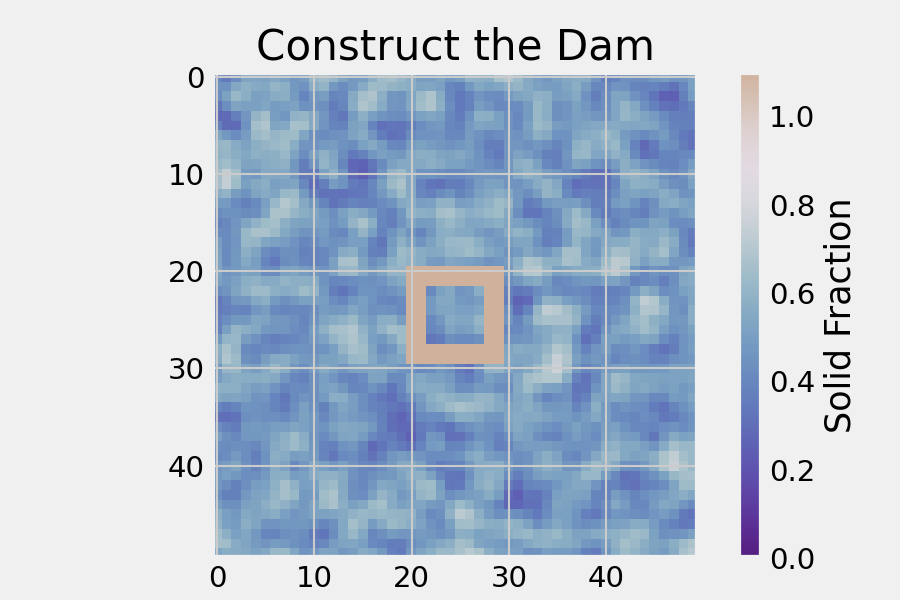
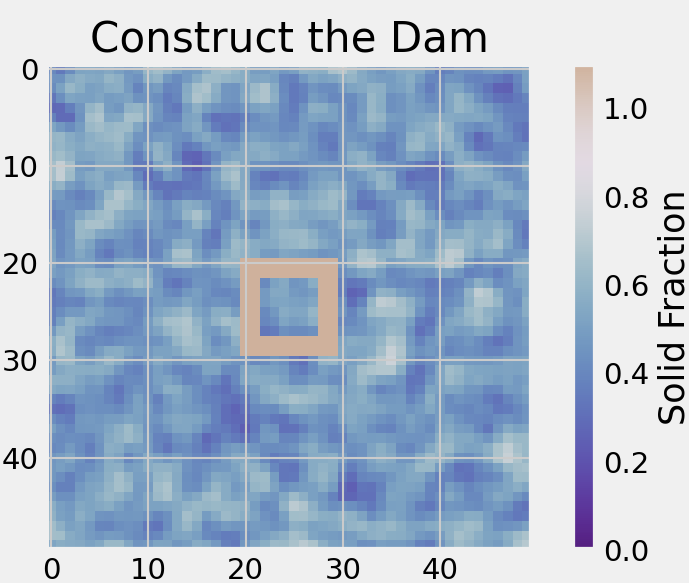
Organize #1

diff --git a/scratch.py b/scratch.py
@@ -9,3 +9,88 @@ ys = psiv(xs)#[psi(x) for x in xs]
 
 plt.plot(xs, ys)
 plt.show()
+
+
+from utils import *
+# from initial_conditions_2D import eps, res, dim, phi, weight_matrix, convolve_matrix
+import matplotlib.pyplot as plt
+from math import pi
+
+res = 50
+eps =0.2
+dim = int(np.ceil(res*(1+2*eps)))
+# Constants
+t_step = 0.05
+dx = 1/res; dy = 1/res # assume grid is total size 1
+weight_matrix = w_matrix(eps, res)
+phi0 = convolve_matrix(np.random.rand(dim, dim), eps, res)
+
+
+# generate initial conditions
+#phi0 = convolve_matrix(phi, eps, res)
+rho0 = np.zeros(phi0.shape)
+q0_x = np.zeros((phi0.shape[0]+1, phi0.shape[1]))
+
+# fluid forcing on the x_direction of q
+additive_q = fluid_forcing_x(q0_x.shape, t_step*1, 1, len_force=int(res/4), start=int(res/2)) # fluid forcing on q
+
+# we now derive an update rule for q based on phi and rho
+def update_rho(phi_mat, rho_mat, Kappa, add_qx_mat, add_qy_mat, dx =dx):
+    """Updates pressure matrix by considering flux"""
+    # have one more in the direction of interrest because of boundary conditions
+    q_x = np.zeros((phi_mat.shape[0]+1, phi_mat.shape[1]))
+    q_y = np.zeros((phi_mat.shape[0], phi_mat.shape[1]+1))
+    # derive each q_x - don't update boundary cells: keep zero flux
+    for i in range(0, q_x.shape[0]-1):
+        for j in range(1, q_x.shape[1]):
+            rho_mat[i,j]
+            t1 = (rho_mat[i, j-1] + rho_mat[i,j])/2
+            t2 = Kappa((phi_mat[i,j-1]+phi_mat[i,j])/2)
+            t3 = (rho_mat[i,j]-rho_mat[i,j-1])/dx
+            q_x[i,j] = t1 * t2 * t3
+
+    # derive each q_y
+    for i in range(1, q_y.shape[0]):
+        for j in range(0, q_y.shape[1]-1):
+            q_y[i,j] = (rho_mat[i-1, j]+rho_mat[i,j])/2 * Kappa((phi_mat[i-1, j]+phi_mat[i-1, j])/2) * (rho_mat[i,j] - rho_mat[i-1,j])/dy
+
+    # update q_x and q_y based on applied forcing
+    q_x = q_x + add_qx_mat
+    q_y = q_y + add_qy_mat
+
+    # calculate total flux into each grid cell
+    tot_flux = np.zeros(rho_mat.shape)
+    for i in range(tot_flux.shape[0]-1):
+        for j in range(tot_flux.shape[1]-1):
+            x_comp = (q_x[i,j+1]-q_x[i,j])/dx
+            y_comp = (q_y[i+1,j]-q_y[i,j])/dy
+            if (x_comp !=0) or (y_comp !=0):
+                print(i,j, x_comp, y_comp)
+            tot_flux[i,j] = -(x_comp + y_comp)
+    
+    # update rho with the new flux
+    rho_new = rho_mat+ tot_flux
+
+    return rho_new
+
+plt.imshow(update_rho(phi0, rho0, Kappa, additive_q, np.zeros((phi0.shape[0], phi0.shape[1]+1))))
+plt.show()
+
+
+
+
+
+# Generates psi function for resistance to grain dislodgement based on solid fraction
+import numpy as np
+from math import tanh
+import matplotlib.pyplot as plt
+xs = np.linspace(0, 1, 1000)
+
+def psi(phi, c1 =0.5, w=5, phistar=0.6, c2=0.5):
+    return c1*tanh(w*(phi-phistar))+c2
+
+psiv = np.vectorize(psi)
+ys = psiv(xs)#[psi(x) for x in xs]
+
+plt.plot(xs, ys)
+plt.show()
